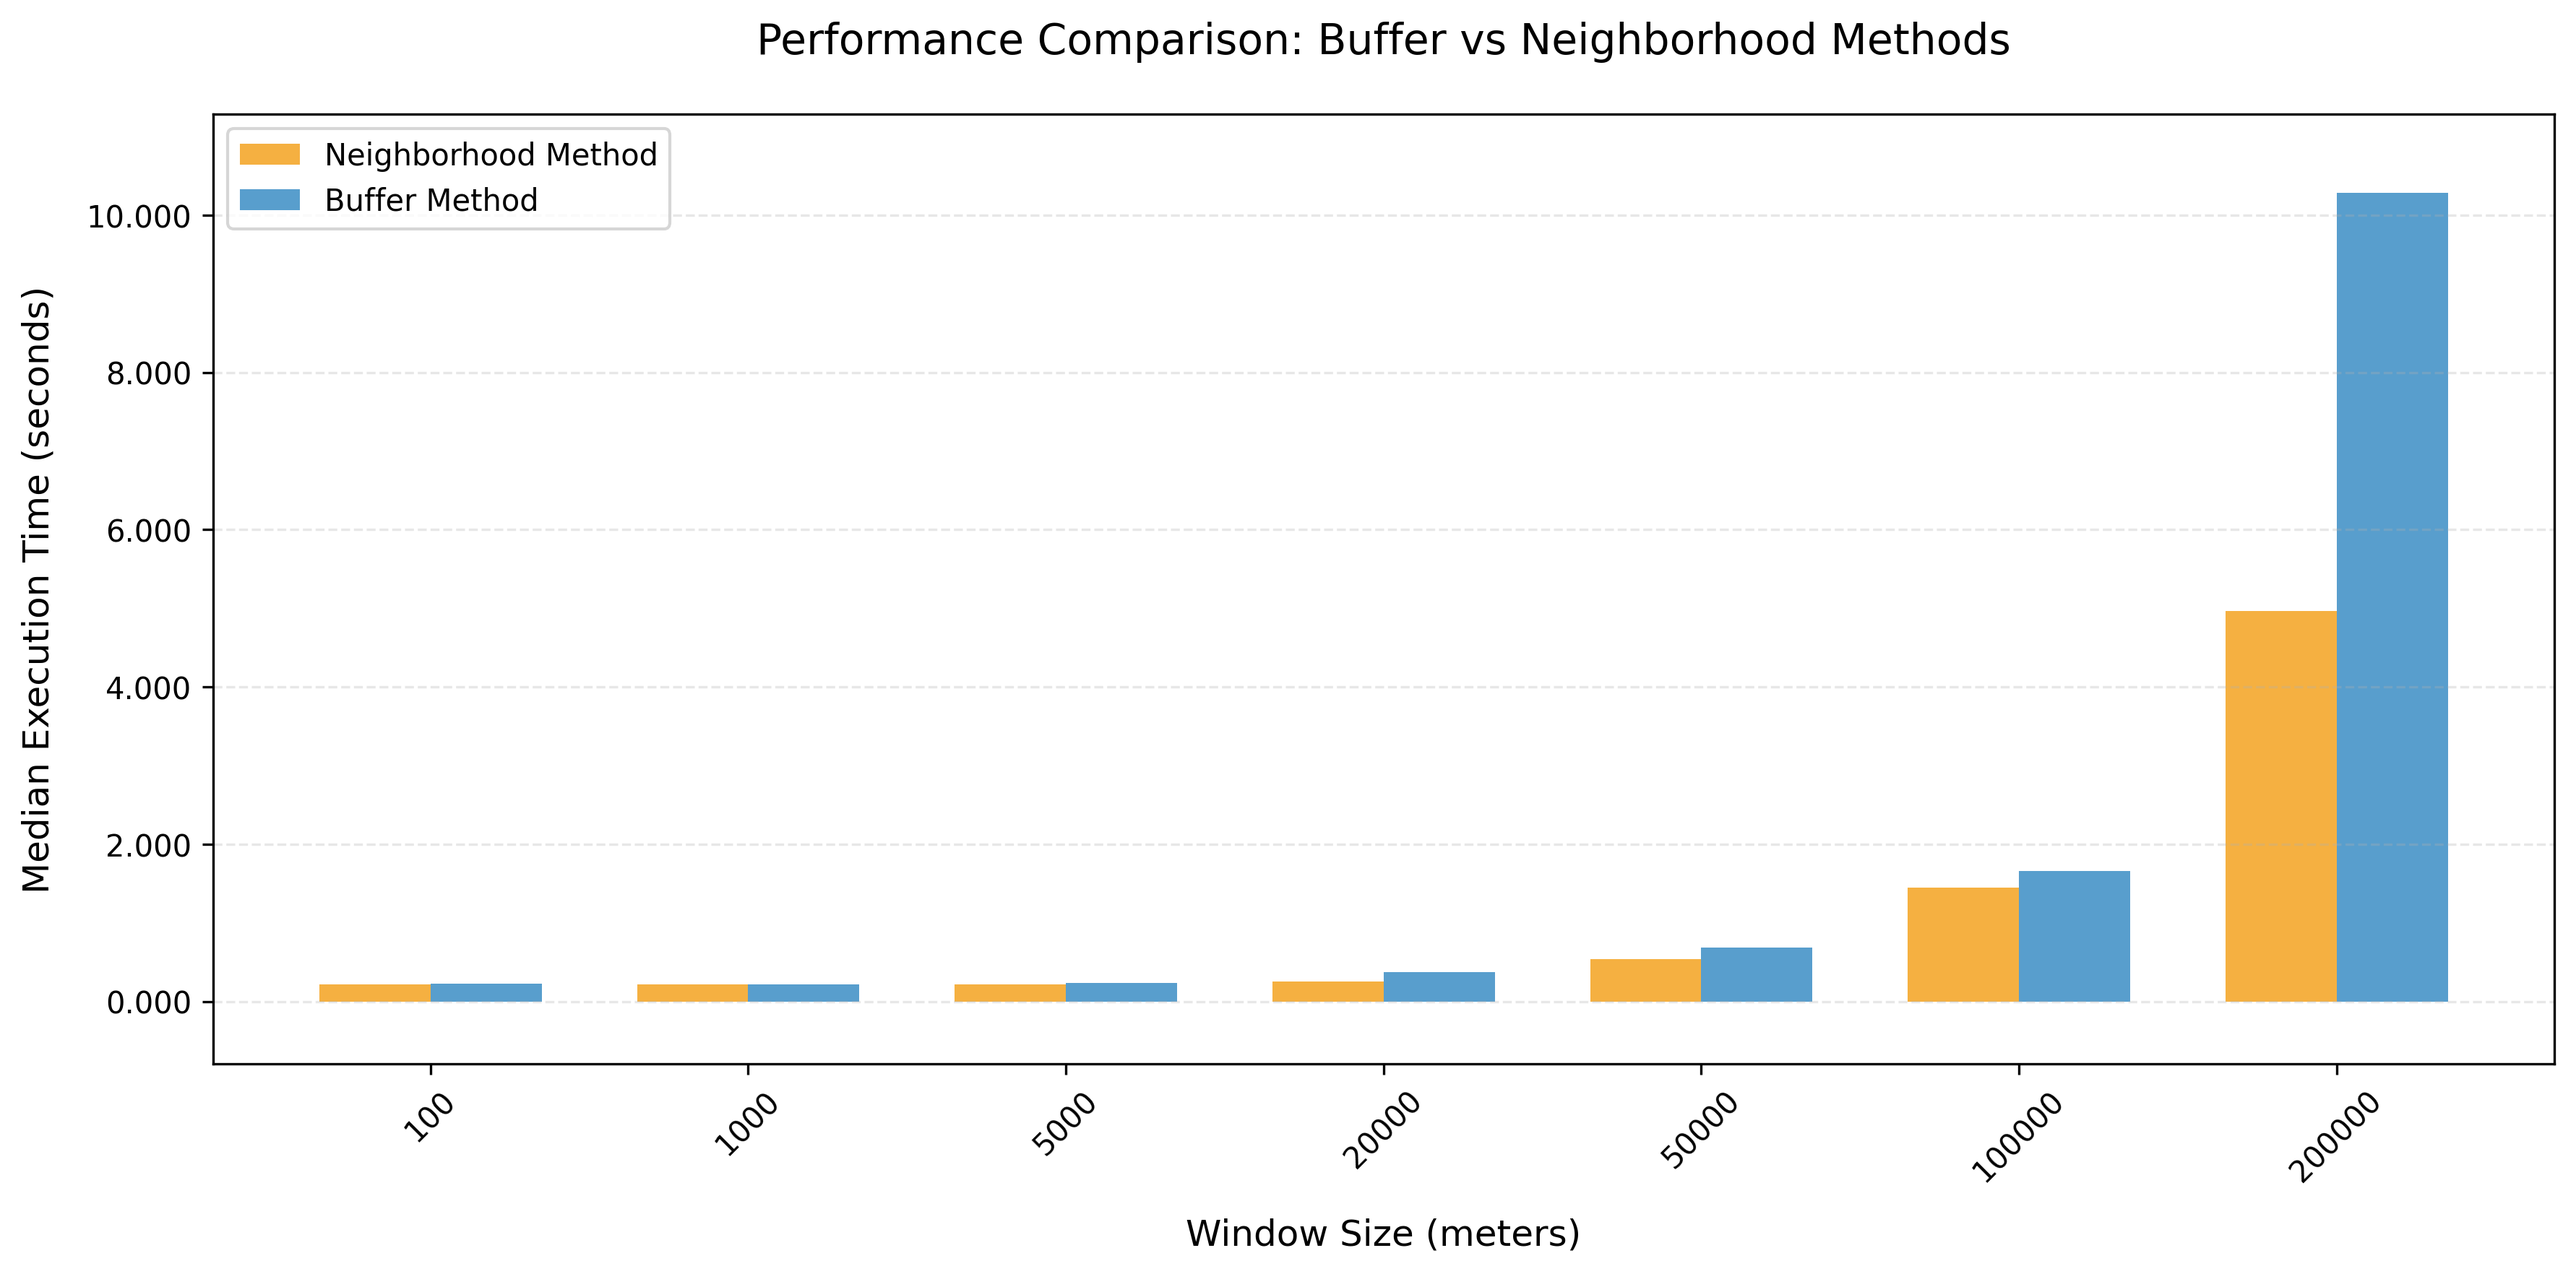
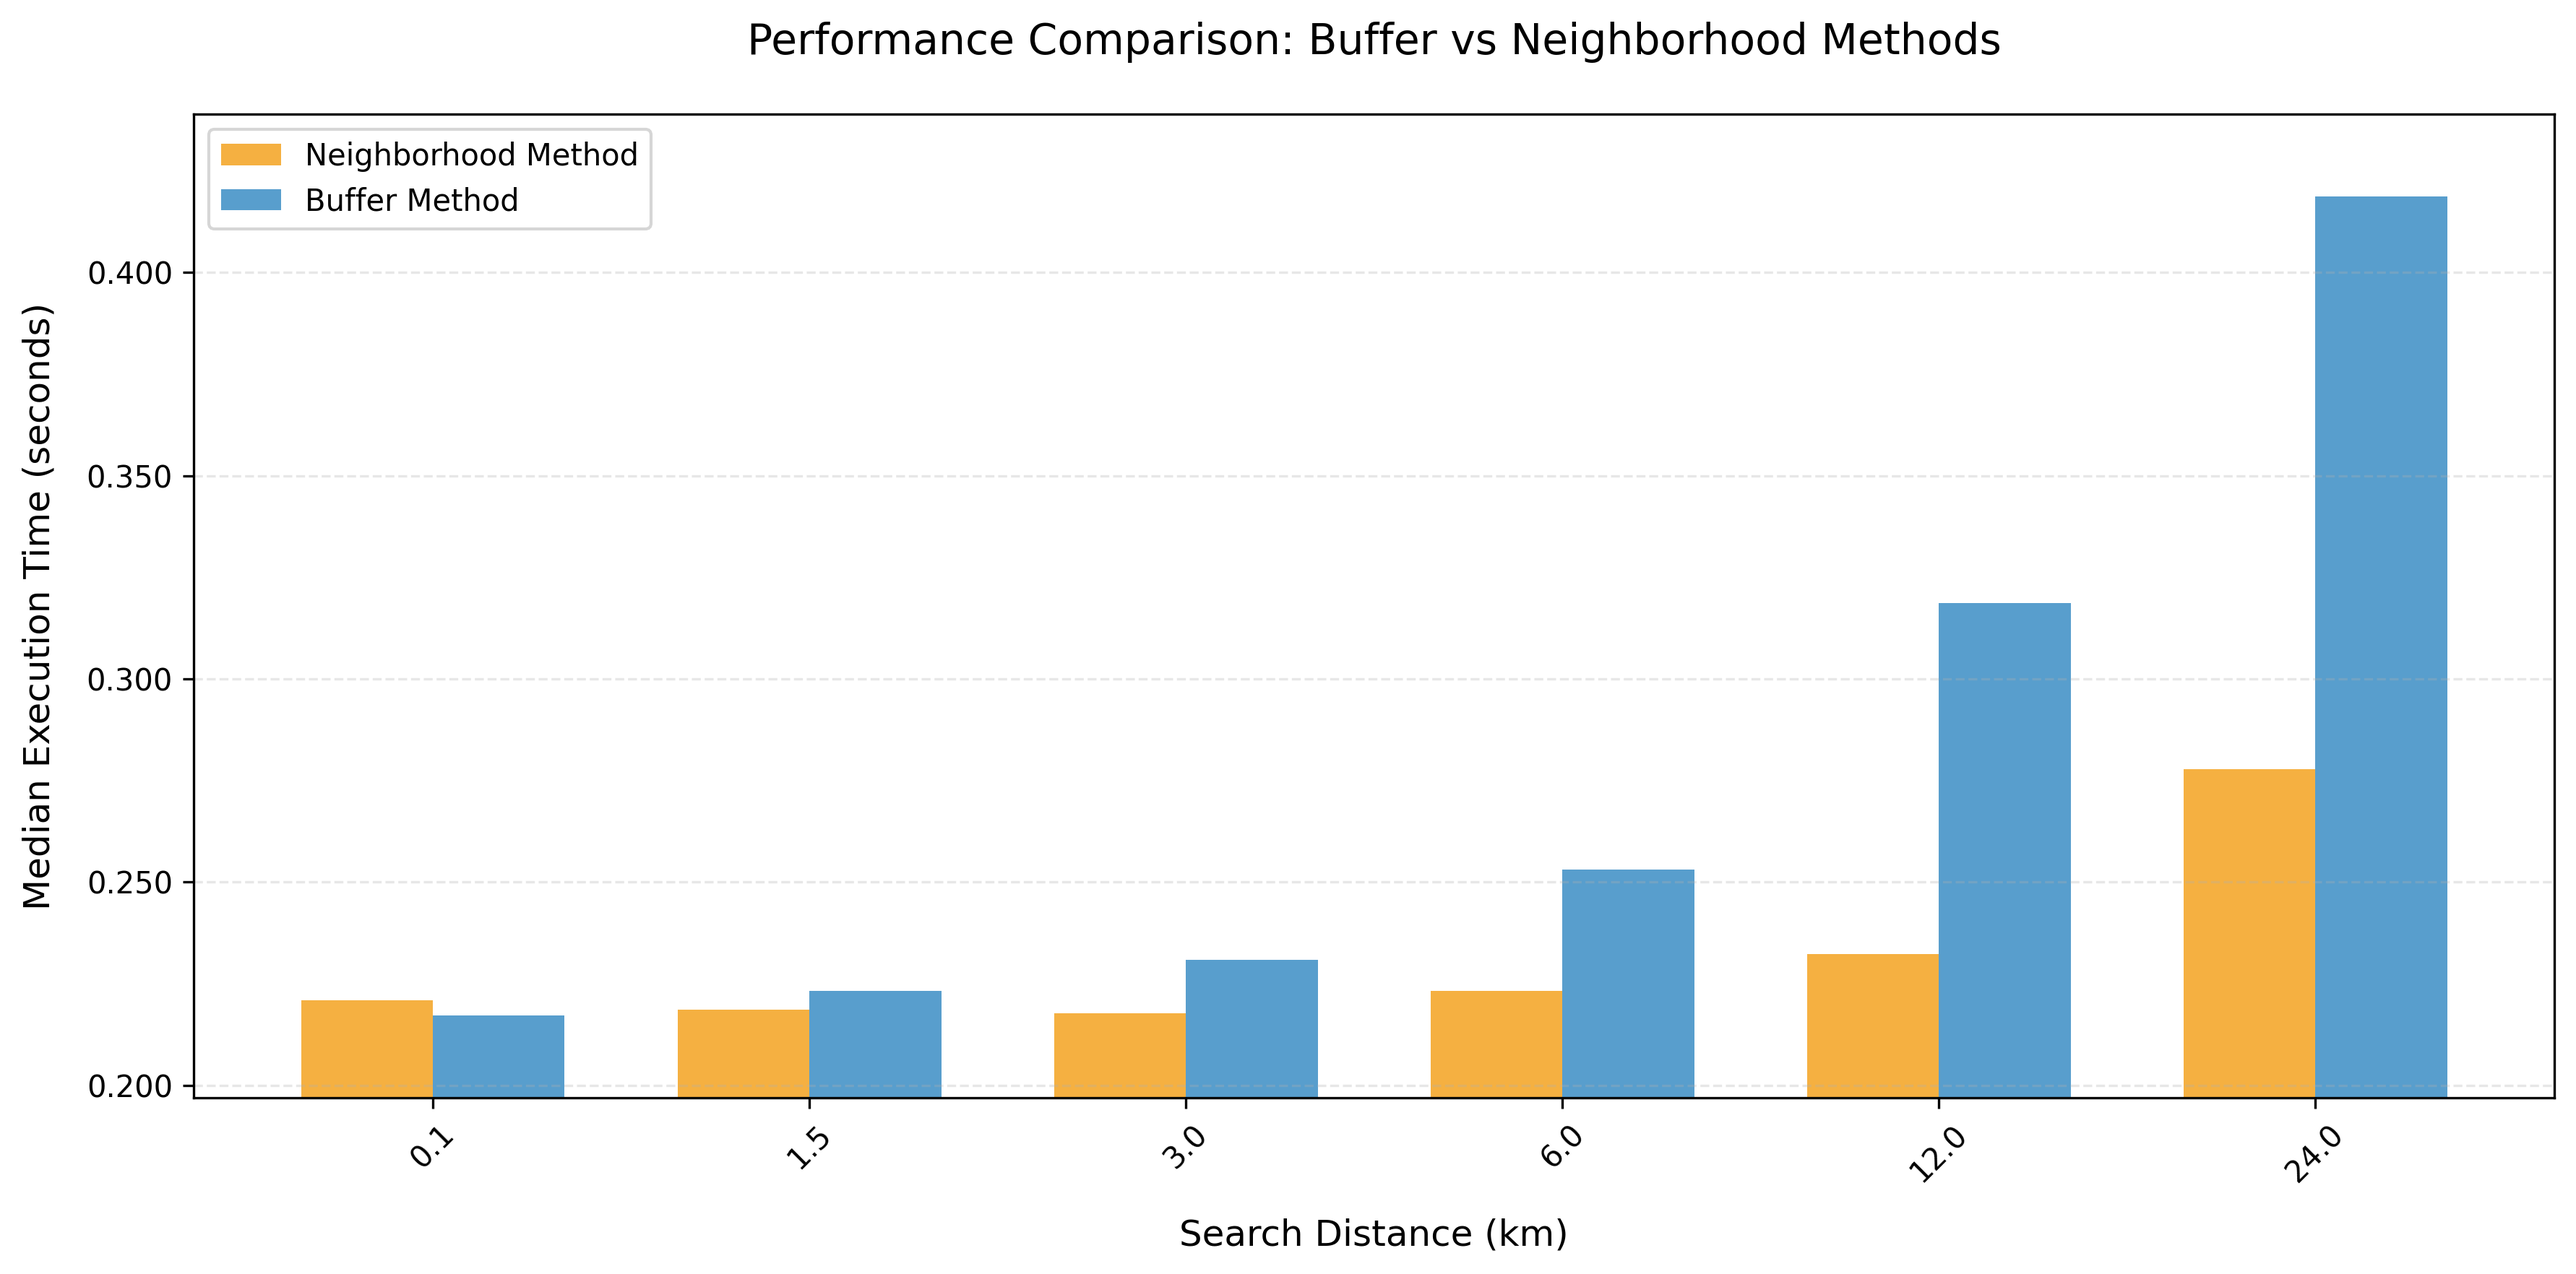
.

diff --git a/query_raster.py b/query_raster.py
@@ -77,7 +77,7 @@ def get_pixel_value_5070(x, y):
         print(f"Error getting pixel value: {e}")
         return None
 
-def get_pixel_counts_in_buffer_5070(x, y, buffer_meters=90):
+def get_pixel_counts_in_buffer_5070(x, y, buffer_meters=115):
     """
     Get counts of pixel values within a buffer distance of a point in EPSG:5070 coordinates.
     
@@ -122,7 +122,7 @@ def get_pixel_counts_in_buffer_5070(x, y, buffer_meters=90):
         print(f"Error getting pixel counts: {e}")
         return None
 
-def get_pixel_counts_in_neighborhood_5070(x, y, window_size=3):
+def get_pixel_counts_in_neighborhood_5070(x, y, window_size=7):
     """
     Get counts of pixel values within a square neighborhood window of a point in EPSG:5070 coordinates.
     Uses ST_Neighborhood to efficiently get a window of pixels around the target cell.
@@ -130,8 +130,15 @@ def get_pixel_counts_in_neighborhood_5070(x, y, window_size=3):
     Args:
         x (float): X coordinate in EPSG:5070
         y (float): Y coordinate in EPSG:5070
-        window_size (int): Size of the window in cells (default 3 for 3x3 window which is 90m x 90m assuming 30m cells)
-    
+        window_size (int): Size of the window in cells (default 7 for 7x7 window which is 210m x 210m assuming 30m cells)
+        since the NLCD raster is 30m resolution, this covers a ~115m radius circle with the center cell.
+            [ ] [ ] [ ] [ ] [ ] [ ] [ ]
+            [ ] [ ] [ ] [ ] [ ] [ ] [ ]
+            [ ] [ ] [ ] [ ] [ ] [ ] [ ]
+            [ ] [ ] [ ] [*] [ ] [ ] [ ]
+            [ ] [ ] [ ] [ ] [ ] [ ] [ ]
+            [ ] [ ] [ ] [ ] [ ] [ ] [ ]
+            [ ] [ ] [ ] [ ] [ ] [ ] [ ]
     Returns:
         dict: Dictionary of {pixel_value: count}
     """
@@ -229,11 +236,12 @@ def plot_scaling_comparison(results, sizes):
     # Customize plot
     plt.title('Performance Comparison: Buffer vs Neighborhood Methods', 
               fontsize=14, pad=20)
-    plt.xlabel('Window Size (meters)', fontsize=12, labelpad=10)
+    plt.xlabel('Search Distance (km)', fontsize=12, labelpad=10)
     plt.ylabel('Median Execution Time (seconds)', fontsize=12, labelpad=10)
     
-    # Set x-axis ticks and labels
-    plt.xticks(x, [str(s) for s in sizes], rotation=45)
+    # Set x-axis ticks and labels in kilometers
+    sizes_km = [size/1000 for size in sizes]
+    plt.xticks(x, [f"{s:.1f}" for s in sizes_km], rotation=45)
     
     # Format y-axis
     min_time = min(min(buffer_medians), min(neighborhood_medians))
@@ -258,14 +266,17 @@ def main():
     # San Francisco coordinates in EPSG:5070 (Albers Equal Area)
     x = -2275431.914745045  # Easting in EPSG:5070
     y = 1955935.417137774   # Northing in EPSG:5070
+
+    # Example output
+    # print(get_pixel_counts_in_neighborhood_5070(x, y, window_size=7))
+    # print(get_pixel_counts_in_buffer_5070(x, y, buffer_meters=115))
     
     # Define sizes to test (in meters)
-    # Testing from 100m to 200km
-    sizes = [100, 1_000, 5_000, 20_000, 50_000, 100_000, 200_000]  # 100m to 200km
+    sizes = [90, 1_500, 3_000, 6_000, 12_000, 24_000]  # 90m to 24km
     
-    # Run benchmarks (5 iterations each)
+    # Run benchmarks (10 iterations each)
     print("\nRunning scaling benchmarks...")
-    results = benchmark_methods_by_size(x, y, sizes, n_iterations=5)
+    results = benchmark_methods_by_size(x, y, sizes, n_iterations=10)
     
     # Print summary statistics
     print("\nPerformance Summary:")
